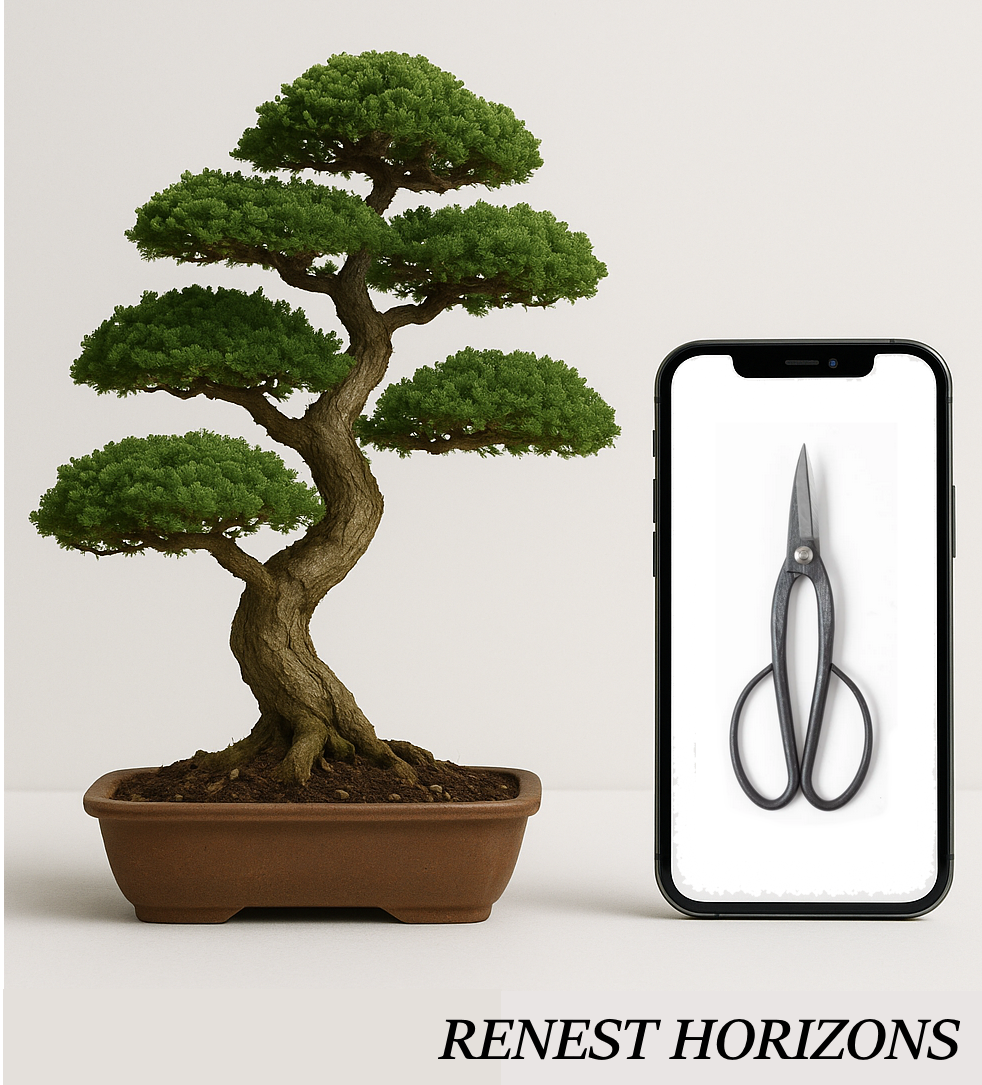
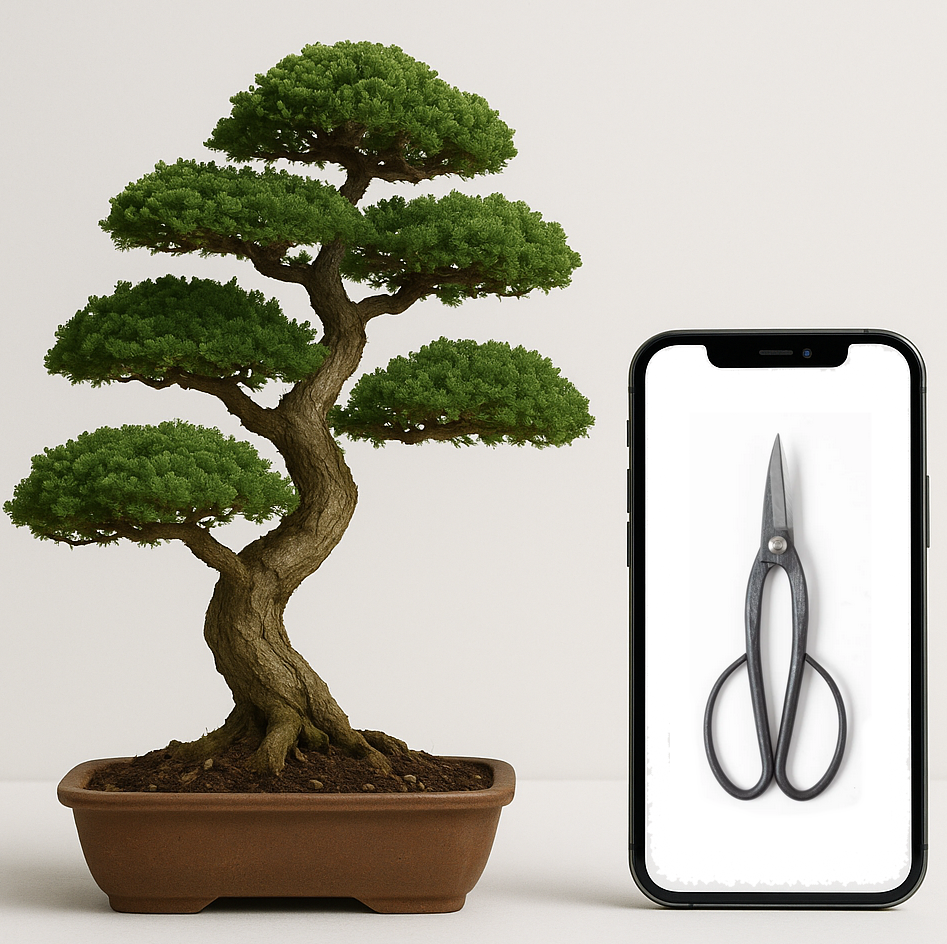
sdfsdfsdf

diff --git a/taxes-1.html b/taxes-1.html
@@ -1336,7 +1336,7 @@
         .hero-img {
             width: 100%;
             height: 100%;
-            object-fit: cover;
+            object-fit: contain;
             transition: transform 0.3s ease;
         }
 
@@ -2078,7 +2078,7 @@
                         <div class="hero-image">
                             <div class="hero-image-container">
                                 <!-- <img src="https://images.unsplash.com/photo-1522202176988-66273c2fd55f?ixlib=rb-4.0.3&ixid=M3wxMjA3fDB8MHxwaG90by1wYWdlfHx8fGVufDB8fHx8fA%3D%3D&auto=format&fit=crop&w=1470&q=80" alt="Three people sitting at table laughing together" class="hero-img" onerror="this.style.display='none'; this.nextElementSibling.style.display='flex';"> -->
-                                <img src="renest-calm.jpg" alt="Three people sitting at table laughing together" class="hero-img" onerror="this.style.display='none'; this.nextElementSibling.style.display='flex';">
+                                <img src="bonsai.png" alt="Three people sitting at table laughing together" class="hero-img" onerror="this.style.display='none'; this.nextElementSibling.style.display='flex';">
                                
                                 <div class="hero-img-fallback" style="display: none;">
                                     <div class="fallback-icon">👥</div>
